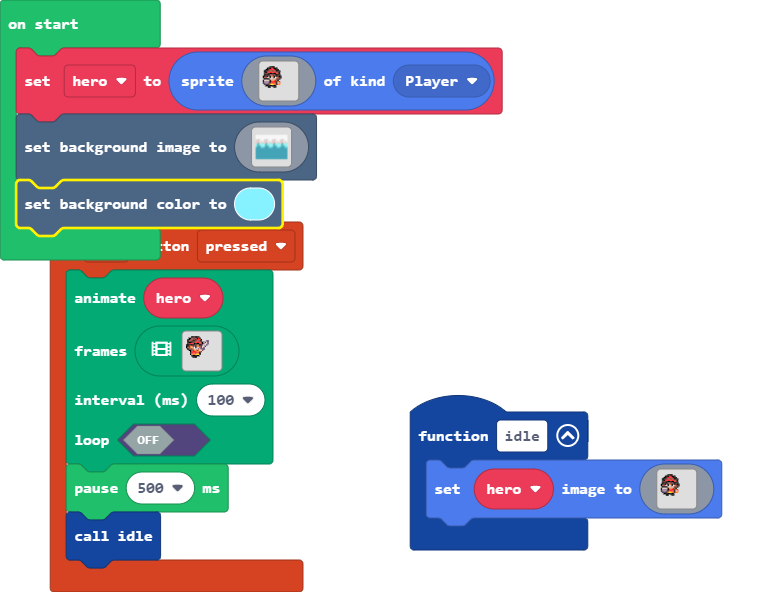
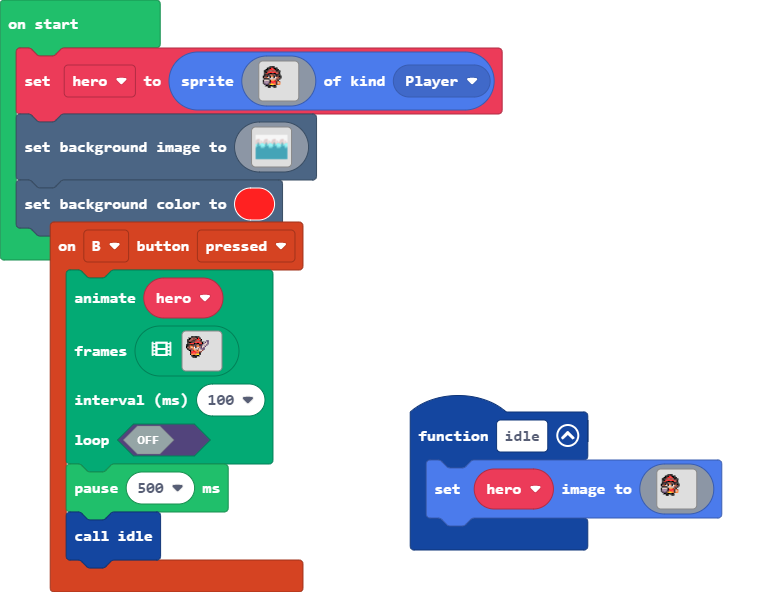
Update main.blocks, main.ts

Changed region(s): [[0.0, 0.2736, 0.3721, 0.4561]]

diff --git a/main.ts b/main.ts
@@ -285,4 +285,4 @@ scene.setBackgroundImage(img`
     6666666666666666666666666666666666666666666666666666666666666666666666666666666666666666666666666666666666666666666666666666666666666666666666666666666666666666
     6666666666666666666666666666666666666666666666666666666666666666666666666666666666666666666666666666666666666666666666666666666666666666666666666666666666666666
     `)
-scene.setBackgroundColor(9)
+scene.setBackgroundColor(2)
